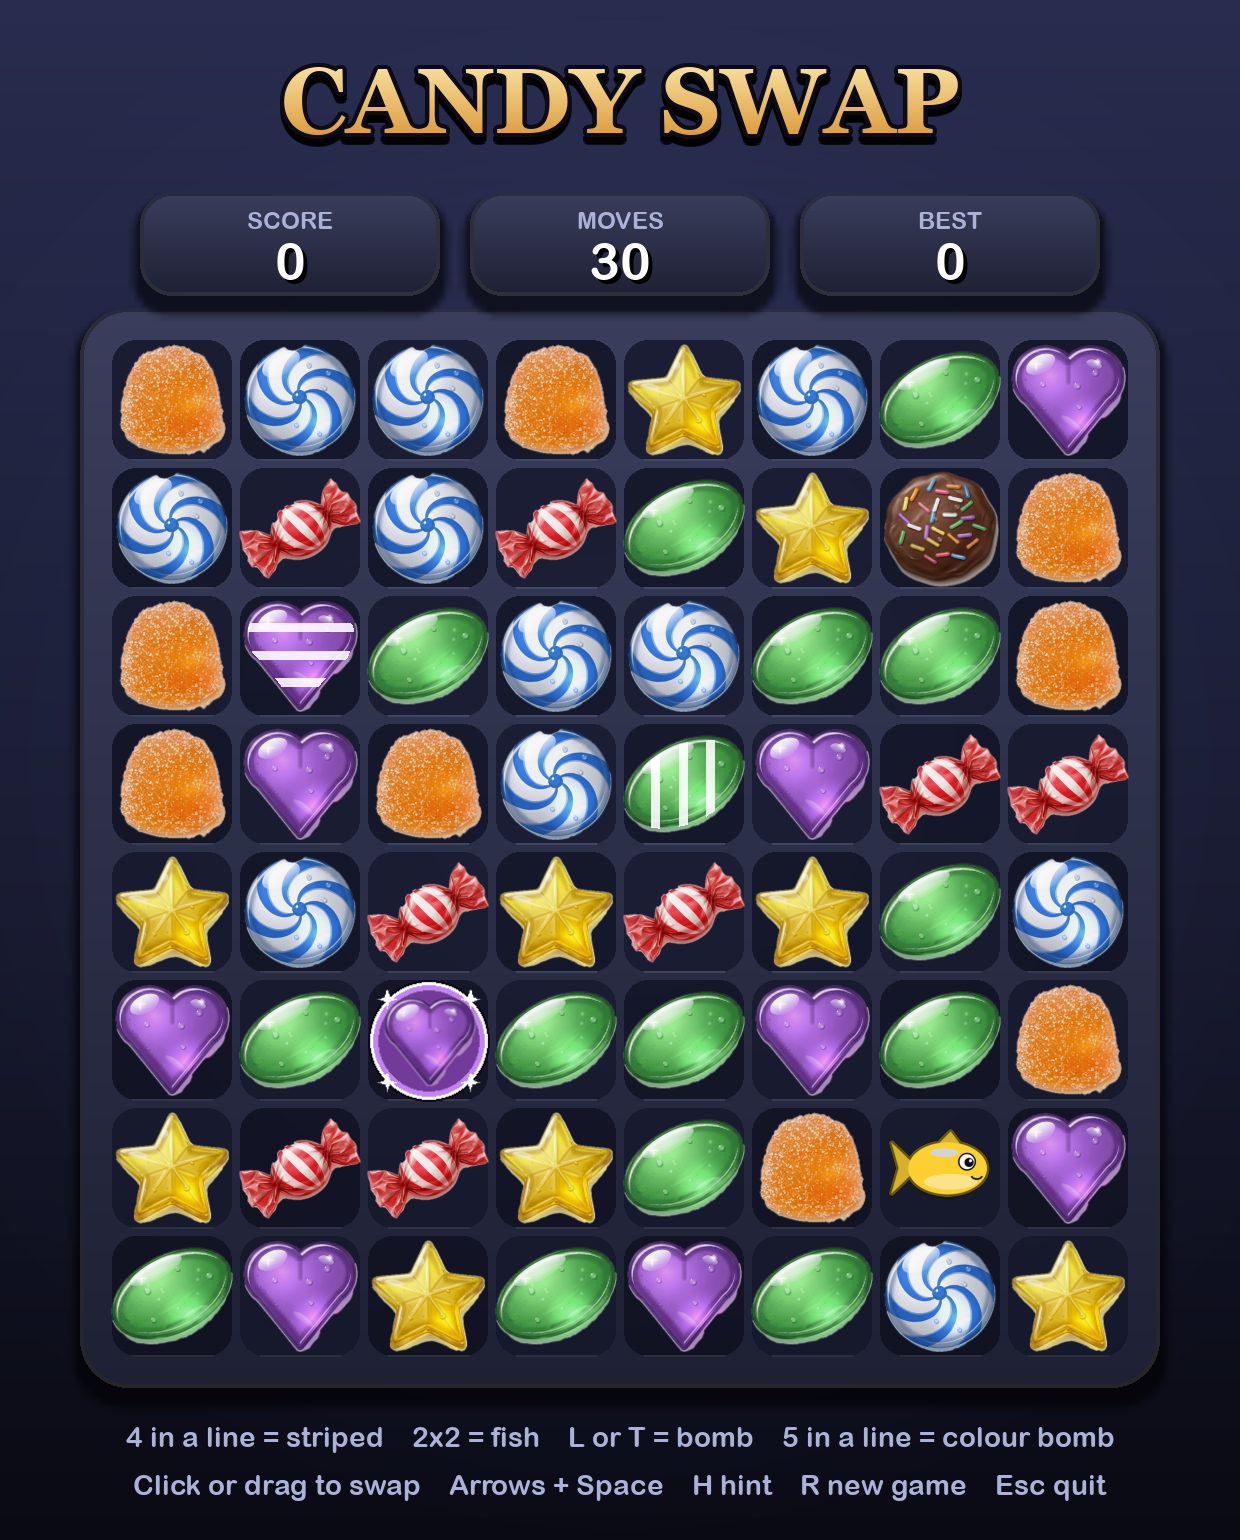
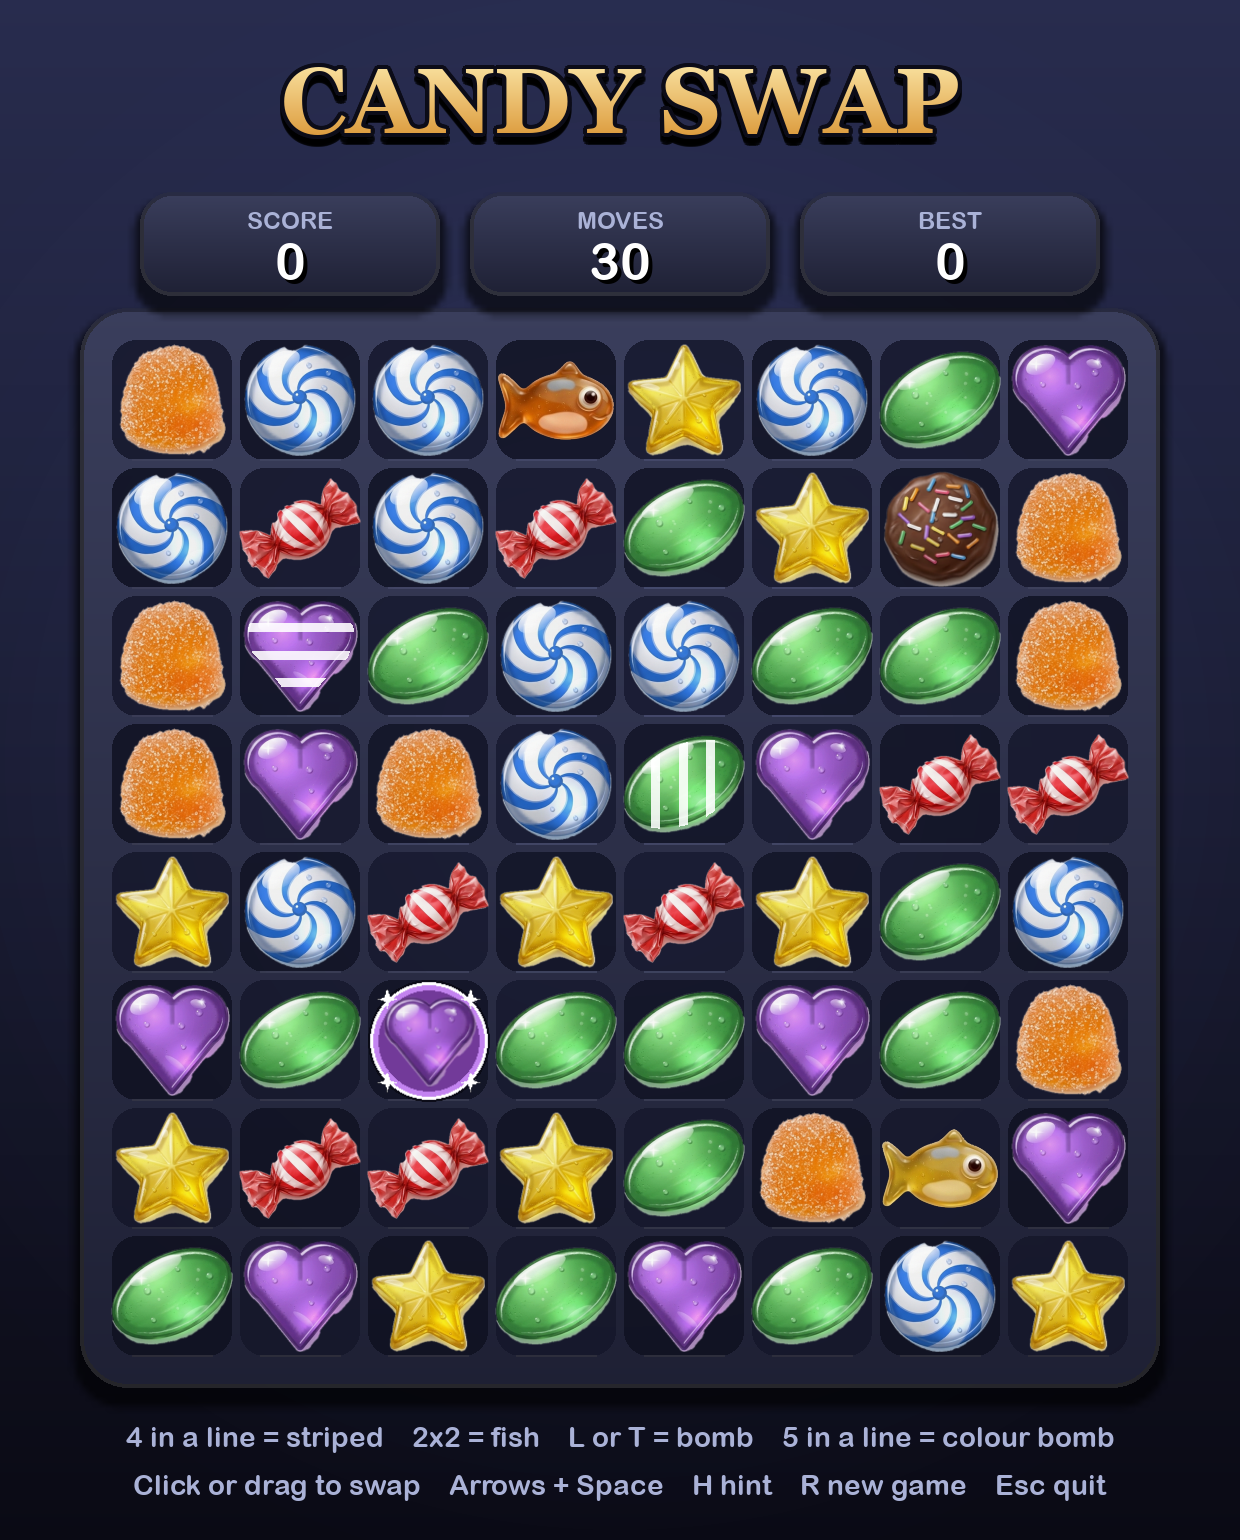
candy swap: use jelly fish sprites instead of drawn fish

Changed region(s): [[0.3984, 0.2182, 0.4903, 0.3117], [0.7048, 0.7169, 0.8274, 0.7792]]

diff --git a/candy_swap.py b/candy_swap.py
@@ -255,38 +255,11 @@ def wrapped(picture, color):
     return out
 
 
-def make_fish(color, size=256):
-    """A jelly fish-shaped candy with a big eye, drawn oversize for smooth edges."""
-    n = size * 4
-    k = n / 1024
-    body = pygame.Surface((n, n), pygame.SRCALPHA)
-    pygame.draw.polygon(body, mix(color, (0, 0, 0), 0.15),
-                        [(330 * k, 512 * k), (110 * k, 300 * k), (170 * k, 512 * k), (110 * k, 724 * k)])
-    pygame.draw.polygon(body, mix(color, (0, 0, 0), 0.15),
-                        [(480 * k, 330 * k), (600 * k, 210 * k), (690 * k, 330 * k)])
-    pygame.draw.ellipse(body, color, (250 * k, 300 * k, 650 * k, 430 * k))
-    mask = pygame.mask.from_surface(body)
-    out = pygame.Surface((n, n), pygame.SRCALPHA)
-    out.blit(mask.to_surface(setcolor=(0, 0, 0, 70), unsetcolor=(0, 0, 0, 0)), (0, round(34 * k)))
-    edge = mask.to_surface(setcolor=mix(color, (0, 0, 0), 0.6), unsetcolor=(0, 0, 0, 0))
-    for a in range(0, 360, 15):
-        out.blit(edge, (round(math.cos(math.radians(a)) * 22 * k), round(math.sin(math.radians(a)) * 22 * k)))
-    out.blit(body, (0, 0))
-    pygame.draw.ellipse(out, mix(color, WHITE, 0.45), (380 * k, 560 * k, 440 * k, 130 * k))  # belly
-    pygame.draw.ellipse(out, (255, 255, 255, 210), (430 * k, 350 * k, 230 * k, 70 * k))      # shine
-    pygame.draw.circle(out, WHITE, (735 * k, 460 * k), 74 * k)                                # eye
-    pygame.draw.circle(out, EDGE, (735 * k, 460 * k), 74 * k, round(12 * k))
-    pygame.draw.circle(out, EDGE, (752 * k, 466 * k), 38 * k)
-    pygame.draw.circle(out, WHITE, (764 * k, 452 * k), 13 * k)
-    pygame.draw.arc(out, EDGE, (760 * k, 520 * k, 110 * k, 90 * k), math.pi * 1.1, math.pi * 1.9,
-                    round(14 * k))                                                            # smile
-    return pygame.transform.smoothscale(out, (size, size))
-
-
 def load_candies(size):
     """Every candy picture, sized to fit a cell: plain, striped both ways, bomb, colour bomb."""
     # convert_alpha matches the screen's pixel layout, which makes drawing ~6x faster
     plain = [pygame.image.load(str(f)).convert_alpha() for f in sorted(CANDY_DIR.glob("candy_*.png"))]
+    fish = [pygame.image.load(str(f)).convert_alpha() for f in sorted(CANDY_DIR.glob("fish_*.png"))]
 
     def fit(picture):
         return pygame.transform.smoothscale(picture, (size, size))
@@ -296,7 +269,7 @@ def load_candies(size):
         "row": [fit(striped(p, True)) for p in plain],
         "col": [fit(striped(p, False)) for p in plain],
         "bomb": [fit(wrapped(p, COLORS[k])) for k, p in enumerate(plain)],
-        "fish": [fit(make_fish(color)) for color in COLORS],
+        "fish": [fit(p) for p in fish],
         "color": fit(pygame.image.load(str(CANDY_DIR / "color_bomb.png")).convert_alpha()),
     }
 
